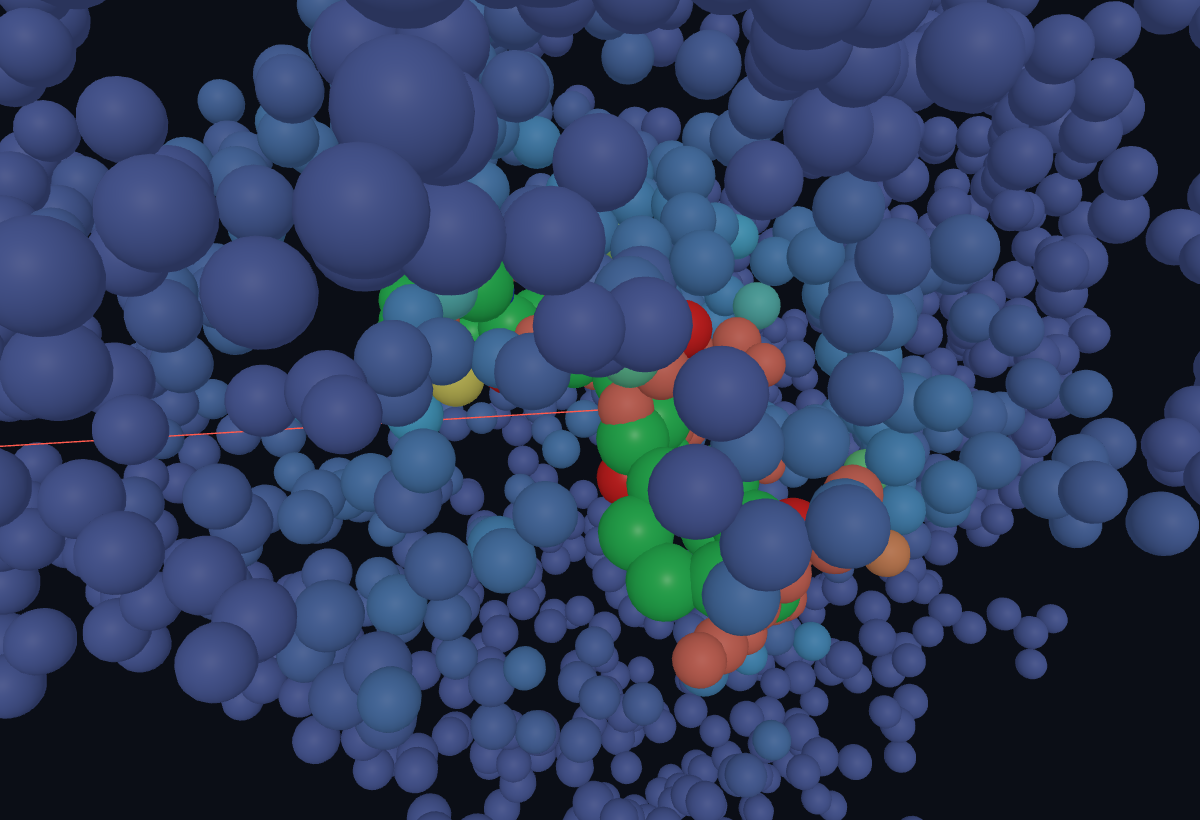
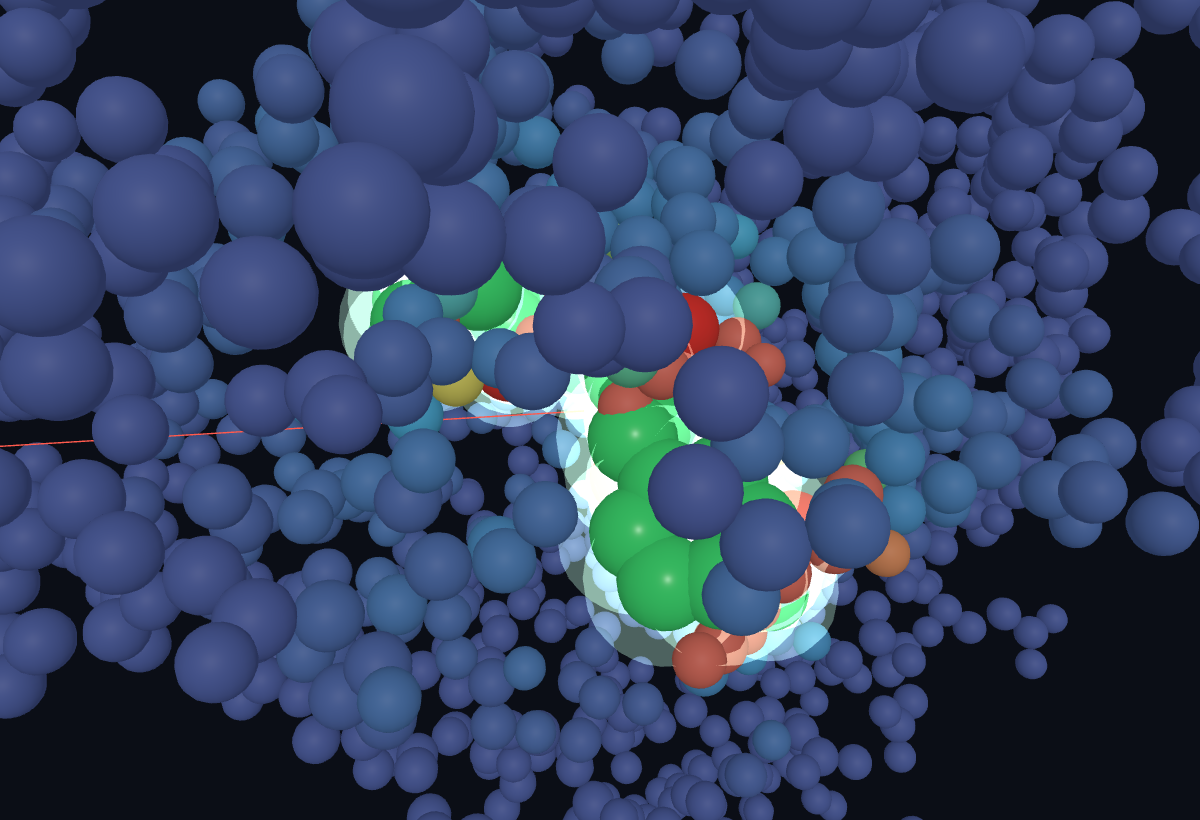
feat: make the ligand pop — glow halo + larger atoms
The ligand now renders chunkier than the protein and is wrapped in an additive white-green halo shell, so it stands out from the (also green/cyan) force heatmap instead of blending into it. README screenshots re-shot to match.

diff --git a/src/main.js b/src/main.js
@@ -8,7 +8,8 @@ import { checkHealth, minimize, poseToPdb } from './openmm.js';
 
 const CUTOFF = 9.0;          // Å — live nonbonded interaction range
 const PROT_SCALE = 0.42;     // sphere radius = scale * vdW
-const LIG_SCALE = 0.55;
+const LIG_SCALE = 0.68;      // ligand drawn chunkier than the protein so it reads as the focus
+const HALO_SCALE = 1.7;      // additive glow shell around each ligand atom
 const FMAX = 18.0;           // kcal/mol/Å — heatmap saturation
 
 const app = document.getElementById('app');
@@ -29,7 +30,11 @@ const key = new THREE.DirectionalLight(0xffffff, 0.85); key.position.set(1, 1, 1
 
 const sphereGeo = new THREE.SphereGeometry(1, 16, 12);
 const protMat = new THREE.MeshStandardMaterial({ roughness: 0.55 });
-const ligMat = new THREE.MeshStandardMaterial({ roughness: 0.4 });
+const ligMat = new THREE.MeshStandardMaterial({ roughness: 0.3, emissive: 0x0c1a12, emissiveIntensity: 1 });
+// Soft white-green additive shell — makes the ligand glow above the heatmap palette so it never
+// blends into the (also green/cyan) force-colored residues.
+const haloMat = new THREE.MeshBasicMaterial({ color: 0xc8ffdd, transparent: true, opacity: 0.33,
+  side: THREE.BackSide, depthWrite: false, blending: THREE.AdditiveBlending });
 
 let P = null, L = null, grid = null;
 const ligOffset = new THREE.Vector3();
@@ -65,11 +70,11 @@ function setStructure(protAtoms, ligAtoms, refit) {
   for (const a of protAtoms) { a.x -= cx; a.y -= cy; a.z -= cz; }
   for (const a of ligAtoms) { a.x -= cx; a.y -= cy; a.z -= cz; }
   if (P && P.mesh) { scene.remove(P.mesh); P.mesh.dispose(); }
-  if (L && L.mesh) { scene.remove(L.mesh); L.mesh.dispose(); }
+  if (L && L.mesh) { scene.remove(L.mesh); L.mesh.dispose(); if (L.halo) { scene.remove(L.halo); L.halo.dispose(); } }
   ligOffset.set(0, 0, 0);
   buildProtein(protAtoms);
   if (ligAtoms.length) buildLigand(ligAtoms);
-  else L = { n: 0, atoms: [], lbase: new Float32Array(0), mesh: null };
+  else L = { n: 0, atoms: [], lbase: new Float32Array(0), mesh: null, halo: null };
   buildGrid();
   if (refit) fitCamera();
   requestRender();
@@ -145,16 +150,21 @@ function buildLigand(arr) {
   const n = arr.length;
   const lbase = new Float32Array(3 * n), rmin = new Float32Array(n), eps = new Float32Array(n), q = new Float32Array(n), rad = new Float32Array(n);
   const mesh = new THREE.InstancedMesh(sphereGeo, ligMat, n);
+  const halo = new THREE.InstancedMesh(sphereGeo, haloMat, n);
+  halo.renderOrder = 2;                                  // draw the glow after the opaque atoms
   for (let i = 0; i < n; i++) {
     const a = arr[i];
     lbase[3 * i] = a.x; lbase[3 * i + 1] = a.y; lbase[3 * i + 2] = a.z;
     const lp = lj(a.el); rmin[i] = lp[0]; eps[i] = lp[1]; q[i] = charge(a.el); rad[i] = elem(a.el).vdw * LIG_SCALE;
-    dummy.position.set(a.x, a.y, a.z); dummy.scale.setScalar(rad[i]); dummy.updateMatrix(); mesh.setMatrixAt(i, dummy.matrix);
-    mesh.setColorAt(i, tmpC.set(a.el === 'C' ? 0x35e06a : elem(a.el).color));
+    dummy.position.set(a.x, a.y, a.z);
+    dummy.scale.setScalar(rad[i]); dummy.updateMatrix(); mesh.setMatrixAt(i, dummy.matrix);
+    dummy.scale.setScalar(rad[i] * HALO_SCALE); dummy.updateMatrix(); halo.setMatrixAt(i, dummy.matrix);
+    mesh.setColorAt(i, tmpC.set(a.el === 'C' ? 0x49ff84 : elem(a.el).color));
   }
   mesh.instanceMatrix.needsUpdate = true; mesh.instanceColor.needsUpdate = true;
-  scene.add(mesh);
-  L = { n, lbase, rmin, eps, q, rad, mesh, atoms: arr,
+  halo.instanceMatrix.needsUpdate = true;
+  scene.add(mesh); scene.add(halo);
+  L = { n, lbase, rmin, eps, q, rad, mesh, halo, atoms: arr,
         resName: arr[0] ? arr[0].resName : 'MK1', resSeq: arr[0] ? arr[0].resSeq : 1, chain: arr[0] ? arr[0].chain : 'B' };
 }
 
@@ -216,8 +226,10 @@ function updateLigand() {
   for (let i = 0; i < L.n; i++) {
     dummy.position.set(L.lbase[3 * i] + ligOffset.x, L.lbase[3 * i + 1] + ligOffset.y, L.lbase[3 * i + 2] + ligOffset.z);
     dummy.scale.setScalar(L.rad[i]); dummy.updateMatrix(); L.mesh.setMatrixAt(i, dummy.matrix);
+    dummy.scale.setScalar(L.rad[i] * HALO_SCALE); dummy.updateMatrix(); L.halo.setMatrixAt(i, dummy.matrix);
   }
   L.mesh.instanceMatrix.needsUpdate = true;
+  L.halo.instanceMatrix.needsUpdate = true;
   L.mesh.computeBoundingSphere();
 }
 